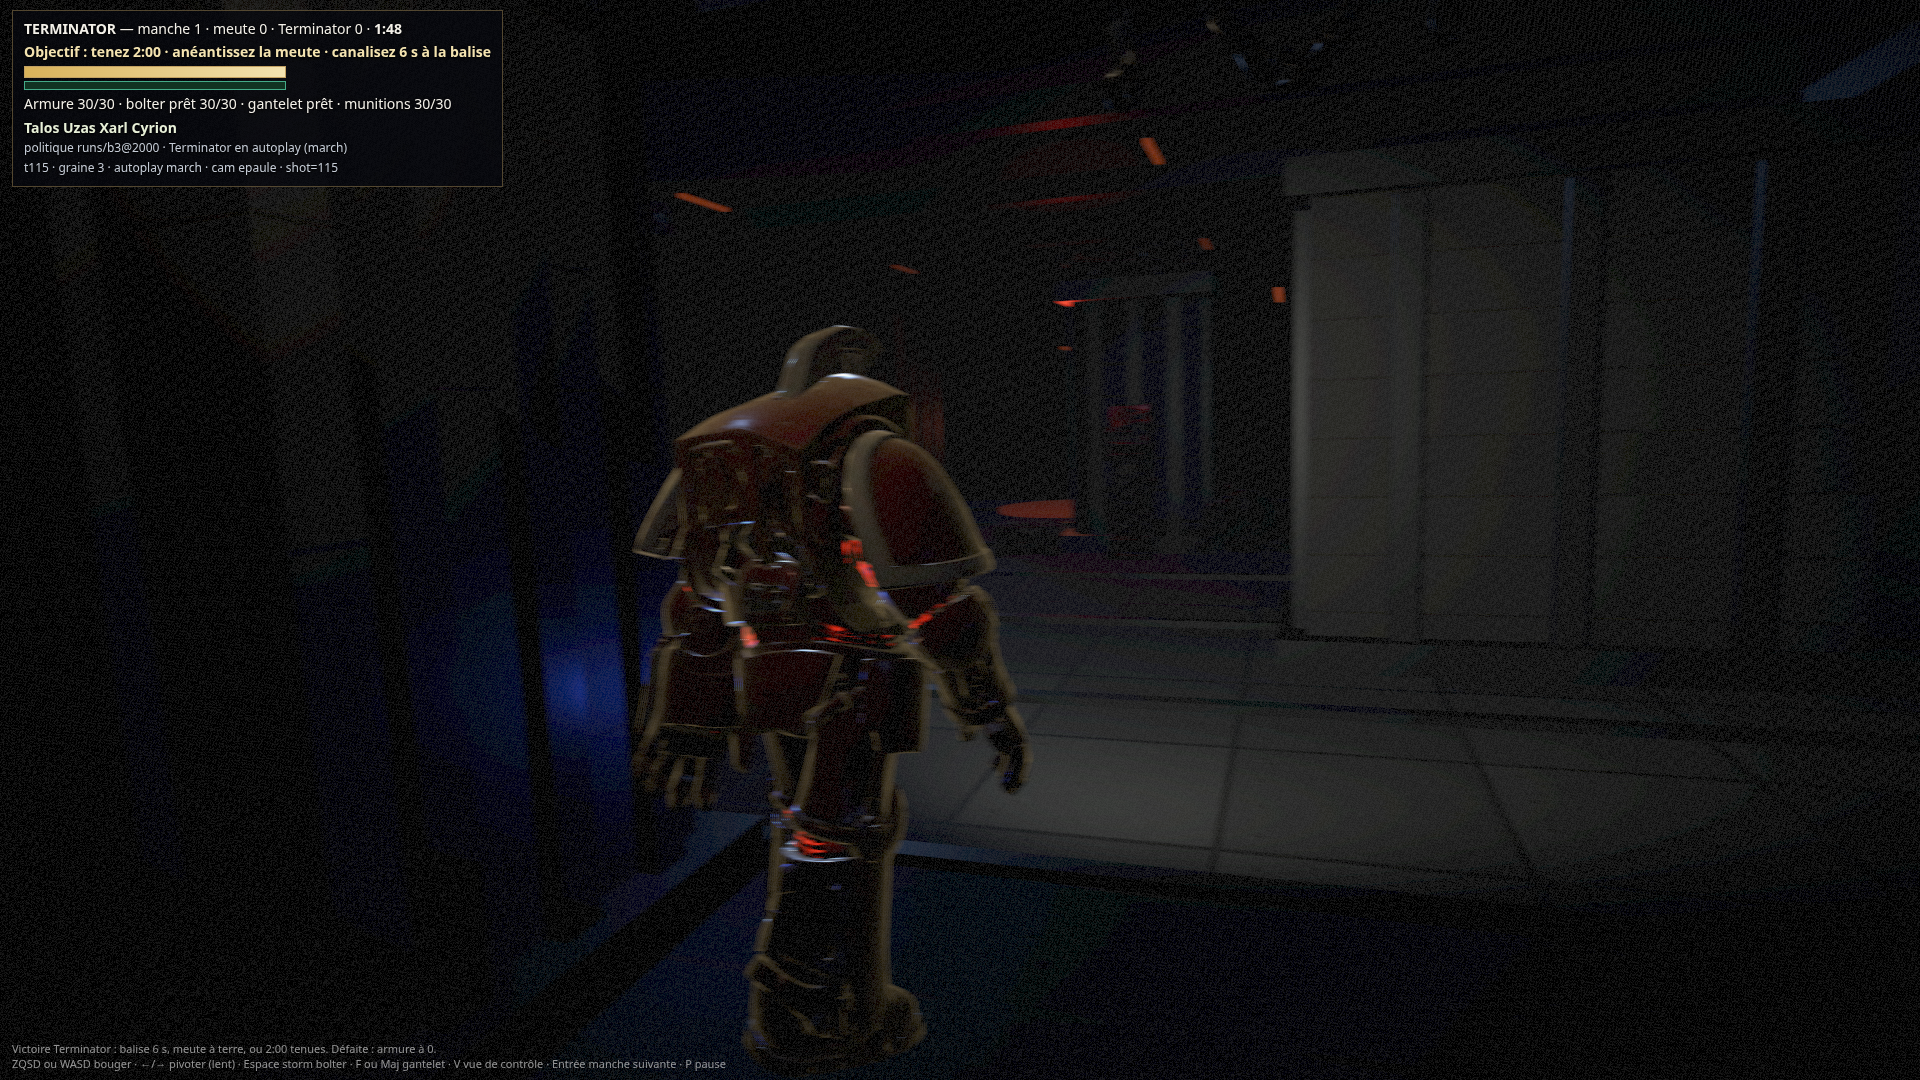
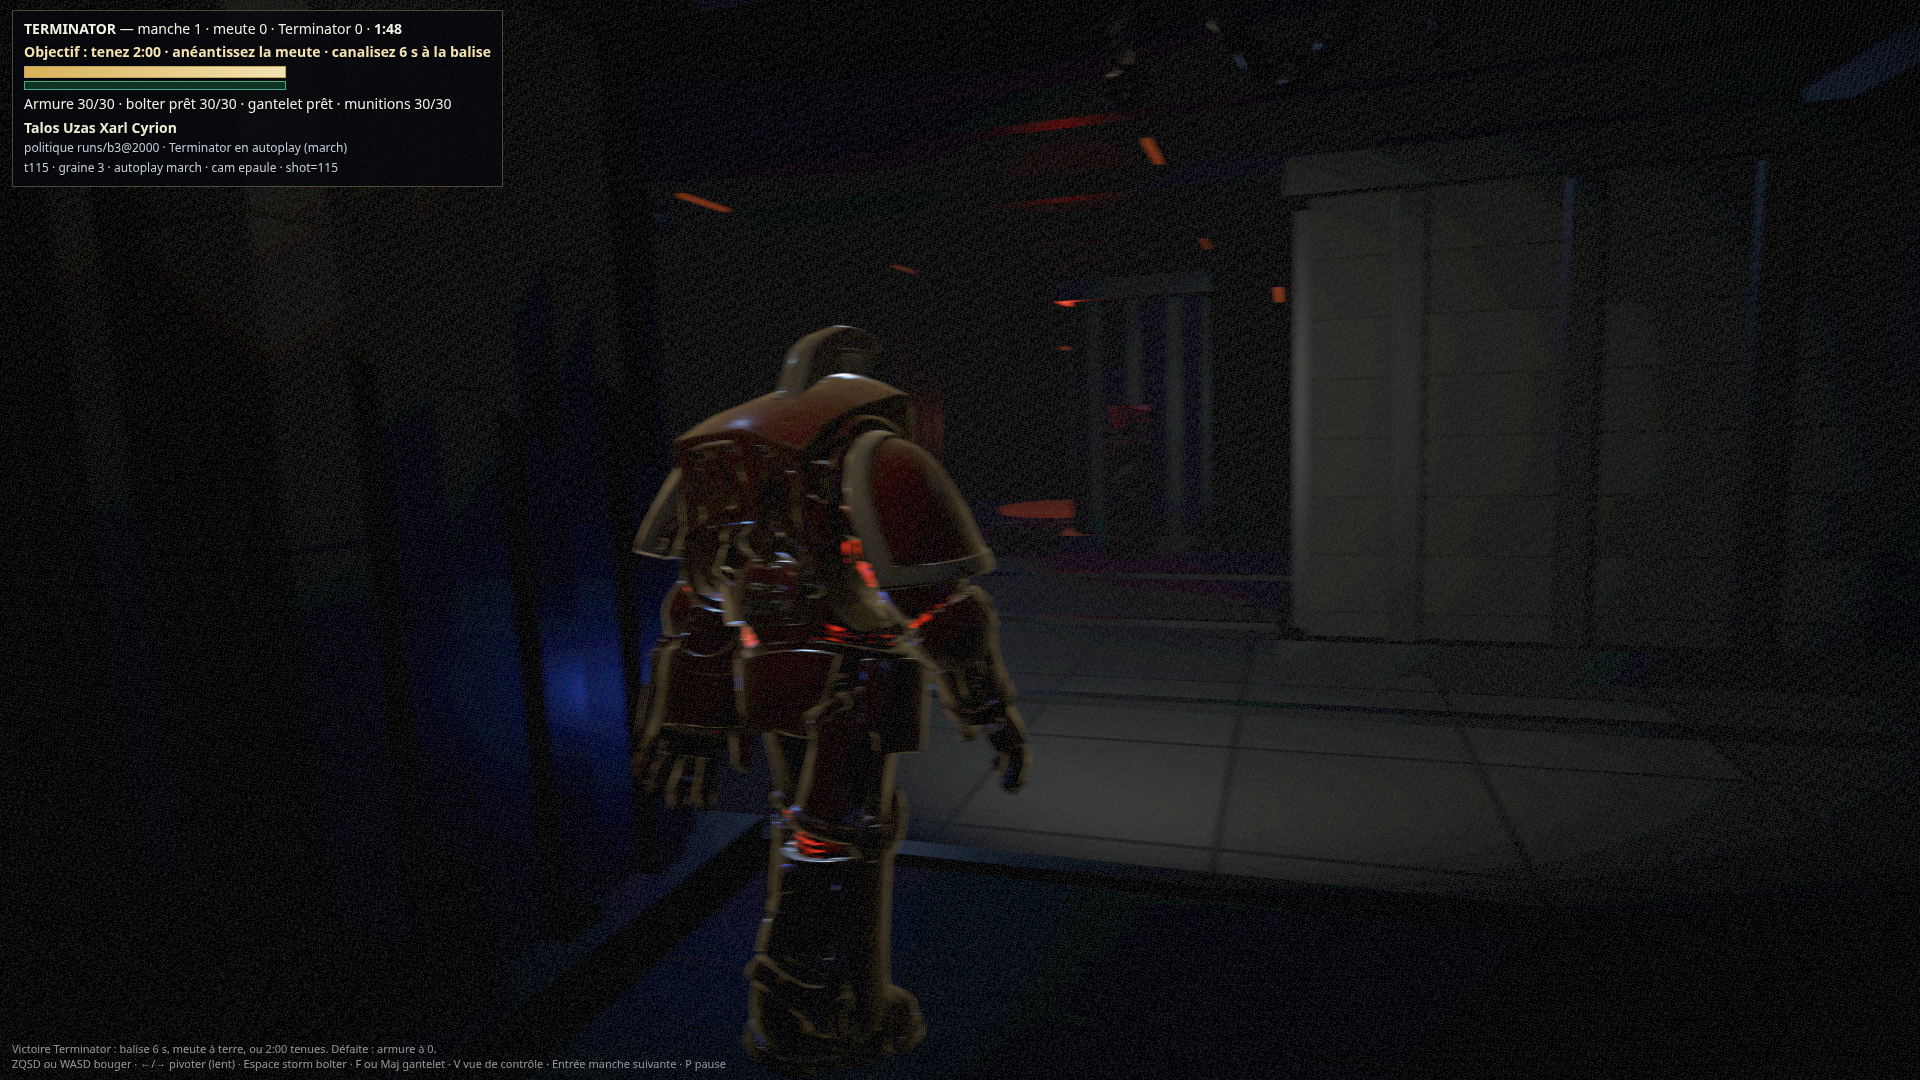
Preuves PR #58 : build/stride bruts, plan 3/4, pas de T-pose
Ajoute ?cam=troisquarts (cadrage plein cadre, hors sim), capture
marche-trois-quarts, sonde d'os (clip walking_man, tpose=false sur
chaque frame). Sorties brutes bun run build (exit 0) et measure-stride
sous docs/captures/terminator/.

diff --git a/web/main.ts b/web/main.ts
@@ -14,7 +14,7 @@ import { advanceMixer, displayMixerDelta, gaitTimeScale, mixerSubstepCount, pick
 import { NL_HEIGHT, TERM_HEIGHT, measureForwardStride, measureHeight, pickClip } from './stride';
 import {
   applyRendererAtmosphere, applySceneAtmosphere, installCorridorLights, configureHunterSpot,
-  CAM, EPAULE, FOLLOW_YAW_BLEND, POST_VIGNETTE, POST_GRAIN, LAMP, STRIP_EMISSIVE,
+  CAM, EPAULE, TROIS_QUARTS, FOLLOW_YAW_BLEND, POST_VIGNETTE, POST_GRAIN, LAMP, STRIP_EMISSIVE,
 } from './atmosphere';
 import { applyTerminatorLook } from './terminator-look';
 // Son : module de Honsou, zéro dépendance, aucune fonction ne lève jamais. Sans banque (elle est hors du
@@ -45,10 +45,24 @@ applyRendererAtmosphere(renderer);
 const FOG_MODE = qs.get('fog') ?? 'exp2';
 const scene = new THREE.Scene();
 applySceneAtmosphere(scene, FOG_MODE);
-// Cadrage : constantes dans `web/atmosphere.ts`. `?cam=couloir` rend P1 (comparaison, captures).
-const CAM_MODE = qs.get('cam') === 'couloir' ? 'couloir' : 'epaule';
+// Cadrage : constantes dans `web/atmosphere.ts`. `?cam=couloir` rend P1 ; `?cam=troisquarts` le plan de preuve.
+type CamMode = 'couloir' | 'epaule' | 'troisquarts';
+const parseCam = (raw: string | null): CamMode => {
+  if (raw === 'couloir') return 'couloir';
+  if (raw === 'troisquarts') return 'troisquarts';
+  return 'epaule';
+};
+const CAM_MODE = parseCam(qs.get('cam'));
+const camFov = (portrait: boolean): number => {
+  switch (CAM_MODE) {
+    case 'couloir': return portrait ? CAM.fovPortrait : CAM.fov;
+    case 'epaule': return portrait ? EPAULE.fovPortrait : EPAULE.fov;
+    case 'troisquarts': return portrait ? TROIS_QUARTS.fovPortrait : TROIS_QUARTS.fov;
+    default: { const _e: never = CAM_MODE; throw new Error(String(_e)); }
+  }
+};
 const IMPACT = qs.get('impact') !== '0'; // ?impact=0 : caméra stable, pour mesurer ce que le poids coûte
-const camera = new THREE.PerspectiveCamera(CAM_MODE === 'epaule' ? EPAULE.fov : CAM.fov, 1, 0.1, 200);
+const camera = new THREE.PerspectiveCamera(camFov(false), 1, 0.1, 200);
 installCorridorLights(scene, BEACON.y);
 // ================== DÉCOR ==================
 // Le grey-box était un plan, sept boîtes et une grille. Ici, un pont de vaisseau construit : tôle rivetée,
@@ -761,27 +775,41 @@ function render(alpha: number) {
   // l'emprise d'un pilier, la caméra monte au-dessus (4,9 m) et regarde par-dessus.
   const fx = Math.cos(camYaw), fz = Math.sin(camYaw);      // axe de marche
   const rx = -fz, rz = fx;                                 // son épaule droite
-  if (CAM_MODE === 'couloir') {
-    const back = portrait ? CAM.back + 1.6 : CAM.back, high = portrait ? CAM.height + 0.9 : CAM.height;
-    // 8,2 m derrière un Terminator à x≈3 sort de la coque (caméra dans le vide = image noire).
-    const cx = Math.min(ARENA.w - 0.6, Math.max(0.6, tx - fx * back));
-    const cz = Math.min(ARENA.h - 0.6, Math.max(0.6, ty - fz * back));
-    const inPillar = PILLARS.some(b => cx > b.x0 - 0.55 && cx < b.x1 + 0.55 && cz > b.y0 - 0.55 && cz < b.y1 + 0.55);
-    const cy = inPillar ? CAM.highMax : high;
-    camera.position.set(cx + sx, cy, cz + sz);
-    camera.lookAt(tx + fx * CAM.ahead + sx, CAM.eye, ty + fz * CAM.ahead + sz);
-  } else {
-    // À l'épaule : quatre offsets (respiration, pas, recul, inclinaison). Cadrage EPAULE : 3,4 m derrière.
-    // temps de rendu : on avance dans le tick en cours pour que 60 fps reste lisse et qu'une capture tombe juste
-    const now = simT - DT + alpha * DT;
-    const breath = Math.sin(now * (2 * Math.PI / 5.2)) * 0.028; // 5,2 s par cycle, 2,8 cm
-    recZ = osc(recImp, now, REC.w, REC.z); recPitch = osc(pitchImp, now, REC.w, REC.z);
-    stepY = osc(stepImp, now, STP.w, STP.z);
-    const back = EPAULE.back + recZ * 0.85;
-    const high = EPAULE.height + stepY + breath;
-    const side = portrait ? EPAULE.side * 0.6 : EPAULE.side;
-    camera.position.set(tx - fx * back + rx * side + sx, high, ty - fz * back + rz * side + sz);
-    camera.lookAt(tx + fx * EPAULE.ahead + sx, EPAULE.eye, ty + fz * EPAULE.ahead + sz);
+  switch (CAM_MODE) {
+    case 'couloir': {
+      const back = portrait ? CAM.back + 1.6 : CAM.back, high = portrait ? CAM.height + 0.9 : CAM.height;
+      // 8,2 m derrière un Terminator à x≈3 sort de la coque (caméra dans le vide = image noire).
+      const cx = Math.min(ARENA.w - 0.6, Math.max(0.6, tx - fx * back));
+      const cz = Math.min(ARENA.h - 0.6, Math.max(0.6, ty - fz * back));
+      const inPillar = PILLARS.some(b => cx > b.x0 - 0.55 && cx < b.x1 + 0.55 && cz > b.y0 - 0.55 && cz < b.y1 + 0.55);
+      const cy = inPillar ? CAM.highMax : high;
+      camera.position.set(cx + sx, cy, cz + sz);
+      camera.lookAt(tx + fx * CAM.ahead + sx, CAM.eye, ty + fz * CAM.ahead + sz);
+      break;
+    }
+    case 'epaule': {
+      // À l'épaule : quatre offsets (respiration, pas, recul, inclinaison). Cadrage EPAULE : 3,4 m derrière.
+      const now = simT - DT + alpha * DT;
+      const breath = Math.sin(now * (2 * Math.PI / 5.2)) * 0.028; // 5,2 s par cycle, 2,8 cm
+      recZ = osc(recImp, now, REC.w, REC.z); recPitch = osc(pitchImp, now, REC.w, REC.z);
+      stepY = osc(stepImp, now, STP.w, STP.z);
+      const back = EPAULE.back + recZ * 0.85;
+      const high = EPAULE.height + stepY + breath;
+      const side = portrait ? EPAULE.side * 0.6 : EPAULE.side;
+      camera.position.set(tx - fx * back + rx * side + sx, high, ty - fz * back + rz * side + sz);
+      camera.lookAt(tx + fx * EPAULE.ahead + sx, EPAULE.eye, ty + fz * EPAULE.ahead + sz);
+      break;
+    }
+    case 'troisquarts': {
+      const q = TROIS_QUARTS;
+      camera.position.set(tx - fx * q.back + rx * q.side + sx, q.height, ty - fz * q.back + rz * q.side + sz);
+      camera.lookAt(tx + fx * q.ahead + sx, q.eye, ty + fz * q.ahead + sz);
+      break;
+    }
+    default: {
+      const _e: never = CAM_MODE;
+      throw new Error(String(_e));
+    }
   }
   camera.up.set(0, 1, 0);
   if (CAM_MODE === 'epaule') { if (recPitch) camera.rotateX(recPitch); camera.rotateZ(rollPrev + (roll - rollPrev) * alpha); }
@@ -816,7 +844,7 @@ function render(alpha: number) {
   renderer.setRenderTarget(null); renderer.render(postScene, postCam);
 }
 let mainCalls = 0, mainTris = 0;
-function resize() { renderer.setSize(innerWidth, innerHeight, false); camera.aspect = innerWidth / innerHeight; camera.fov = CAM_MODE === 'epaule' ? (innerHeight > innerWidth ? EPAULE.fovPortrait : EPAULE.fov) : (innerHeight > innerWidth ? CAM.fovPortrait : CAM.fov); camera.updateProjectionMatrix();
+function resize() { renderer.setSize(innerWidth, innerHeight, false); camera.aspect = innerWidth / innerHeight; camera.fov = camFov(innerHeight > innerWidth); camera.updateProjectionMatrix();
   const s = renderer.getDrawingBufferSize(new THREE.Vector2()); rt.setSize(s.x, s.y); }
 addEventListener('resize', resize);
 
@@ -850,6 +878,28 @@ if (debug) buildLabels();
 // C'est la seule mesure de coût de rendu qu'on puisse prendre sans GPU — pas une sonde jetable, elle reste.
 if (debug) (window as any).__SC = () => { let lights = 0; scene.traverse(o => { if ((o as any).isLight) lights++; });
   return { calls: mainCalls, tris: mainTris, lights, textures: renderer.info.memory.textures, geometries: renderer.info.memory.geometries, programs: renderer.info.programs?.length ?? 0, props: { ...propStats } }; };
+function termPoseReport() {
+  const bonePos: Record<string, { x: number; y: number; z: number }> = {};
+  termRig?.root.updateMatrixWorld(true);
+  termRig?.root.traverse((o) => {
+    if (!(o as THREE.Bone).isBone) return;
+    const p = new THREE.Vector3();
+    o.getWorldPosition(p);
+    bonePos[o.name] = { x: p.x, y: p.y, z: p.z };
+  });
+  const lh = bonePos.LeftHand, rh = bonePos.RightHand, lf = bonePos.LeftFoot, rf = bonePos.RightFoot;
+  const handSpan = lh && rh ? Math.hypot(lh.x - rh.x, lh.y - rh.y, lh.z - rh.z) : 0;
+  const footDx = lf && rf ? Math.abs(lf.x - rf.x) : 0;
+  // Bind T-pose : bras en croix (mains loin), pieds presque au même X. La marche écarte les pieds sur +X.
+  const tpose = handSpan > 1.55 && footDx < 0.18;
+  return {
+    clip: termRig?.current?.getClip().name ?? null,
+    timeScale: termRig?.current?.timeScale ?? null,
+    actionTime: termRig?.current?.time ?? null,
+    LeftHand: lh, RightHand: rh, LeftFoot: lf, RightFoot: rf,
+    handSpan, footDx, tpose,
+  };
+}
 await Promise.all([
   loadPolicy(), loadModels(), loadProps(),
   // capture `?shot=` : pas de fetch audio (sinon 404 console sur le manifeste hors dépôt)
@@ -871,6 +921,7 @@ if (Number(qs.get('hitscan') ?? 0)) {
 if (shot) { // capture : on avance la sim de N ticks sans attendre le temps réel, puis on rend une image
   while (w.tick < shot && !w.done) tick();
   hitstop = 0; shake = 0; prev = snap(); hud(); render(1);
+  (window as any).__termPose = termPoseReport();
   document.title = 'READY';
 } else {
   let last = performance.now();

diff --git a/scripts/capture-terminator.ts b/scripts/capture-terminator.ts
@@ -30,6 +30,7 @@ function waitListen(child: ReturnType<typeof spawn>, needle: string, ms: number)
 const SHOTS = [
   { name: 'gros-plan', qs: 'shot=115&seed=3&autoplay=march' },
   { name: 'jeu-hud', qs: 'shot=40&seed=3&autoplay=march&cam=couloir' },
+  { name: 'marche-trois-quarts', qs: 'shot=80&seed=3&autoplay=march&cam=troisquarts' },
 ];
 
 const ownServer = process.env.NO_SERVER !== '1';
@@ -70,6 +71,7 @@ try {
     await page.waitForFunction(() => document.title === 'READY', { timeout: 180000 });
     const png = join(OUT, `${PREFIX}-${shot.name}.png`);
     await page.screenshot({ path: png, type: 'png' });
+    const pose = await page.evaluate(() => (window as unknown as { __termPose?: unknown }).__termPose ?? null);
     const webgl = await page.evaluate(() => {
       const c = document.getElementById('c') as HTMLCanvasElement | null;
       const gl = c?.getContext('webgl2') || c?.getContext('webgl');
@@ -85,6 +87,7 @@ try {
       name: shot.name,
       url,
       png,
+      pose,
       webgl,
       console: consoleLines,
       pageErrors,
@@ -99,12 +102,19 @@ try {
 }
 
 writeFileSync(join(OUT, `${PREFIX}-console-network.json`), JSON.stringify(log, null, 2));
+writeFileSync(join(OUT, `${PREFIX}-pose.json`), JSON.stringify(log.shots.map((s) => {
+  const shot = s as { name: string; pose?: unknown };
+  return { name: shot.name, pose: shot.pose };
+}), null, 2));
 const known404 = (u: string) => u.includes('/web/sfx/nightlords/manifest.json');
-for (const s of log.shots as Array<{ name: string; pageErrors: string[]; console: { type: string; text: string }[]; networkFailed: { status: number; url: string }[] }>) {
+for (const s of log.shots as Array<{ name: string; pageErrors: string[]; console: { type: string; text: string }[]; networkFailed: { status: number; url: string }[]; pose?: { tpose?: boolean; clip?: string | null; footDx?: number } }>) {
   const hardConsole = s.console.filter((l) => l.type === 'error' && !l.text.includes('404') && !l.text.includes("Couldn't load texture"));
   const hardNet = s.networkFailed.filter((r) => !known404(r.url));
   if (s.pageErrors.length || hardConsole.length || hardNet.length) {
     throw new Error(`${s.name}: ${JSON.stringify({ pageErrors: s.pageErrors, hardConsole, hardNet })}`);
+  }
+  if (s.pose?.tpose) {
+    throw new Error(`${s.name}: T-pose (clip=${s.pose.clip} footDx=${s.pose.footDx})`);
   }
 }
 console.log(JSON.stringify({ prefix: PREFIX, shots: (log.shots as { name: string }[]).map((s) => s.name) }, null, 2));

diff --git a/web/atmosphere.ts b/web/atmosphere.ts
@@ -14,6 +14,8 @@ export const TONE_MAPPING_EXPOSURE = 1.34;
 export const CAM = { back: 8.2, height: 3.28, highMax: 4.9, ahead: 2.8, eye: 1.18, fov: 54, fovPortrait: 64 };
 // Épaule : FOV 62 → 56 (moins de grand-angle), 2,32 m d'œil, look 4,6 m. Le Terminator tient le tiers bas-gauche.
 export const EPAULE = { back: 3.4, side: 1.18, height: 2.32, ahead: 4.6, eye: 1.32, fov: 56, fovPortrait: 68 };
+// Capture 3/4 plein cadre (`?cam=troisquarts`) : plus près, plus de côté que l'épaule jouable.
+export const TROIS_QUARTS = { back: 4.2, side: 2.85, height: 1.55, ahead: 0.15, eye: 1.05, fov: 46, fovPortrait: 54 };
 export const FOLLOW_YAW_BLEND = 0.22; // était 0,26 : un peu plus d'inertie, toujours ~3,5 rad/s
 export const POST_VIGNETTE = 1.00;
 export const POST_GRAIN = 0.014; // grain film, linéaire ; un dither 1,5/255 est ajouté après le gamma dans le shader
